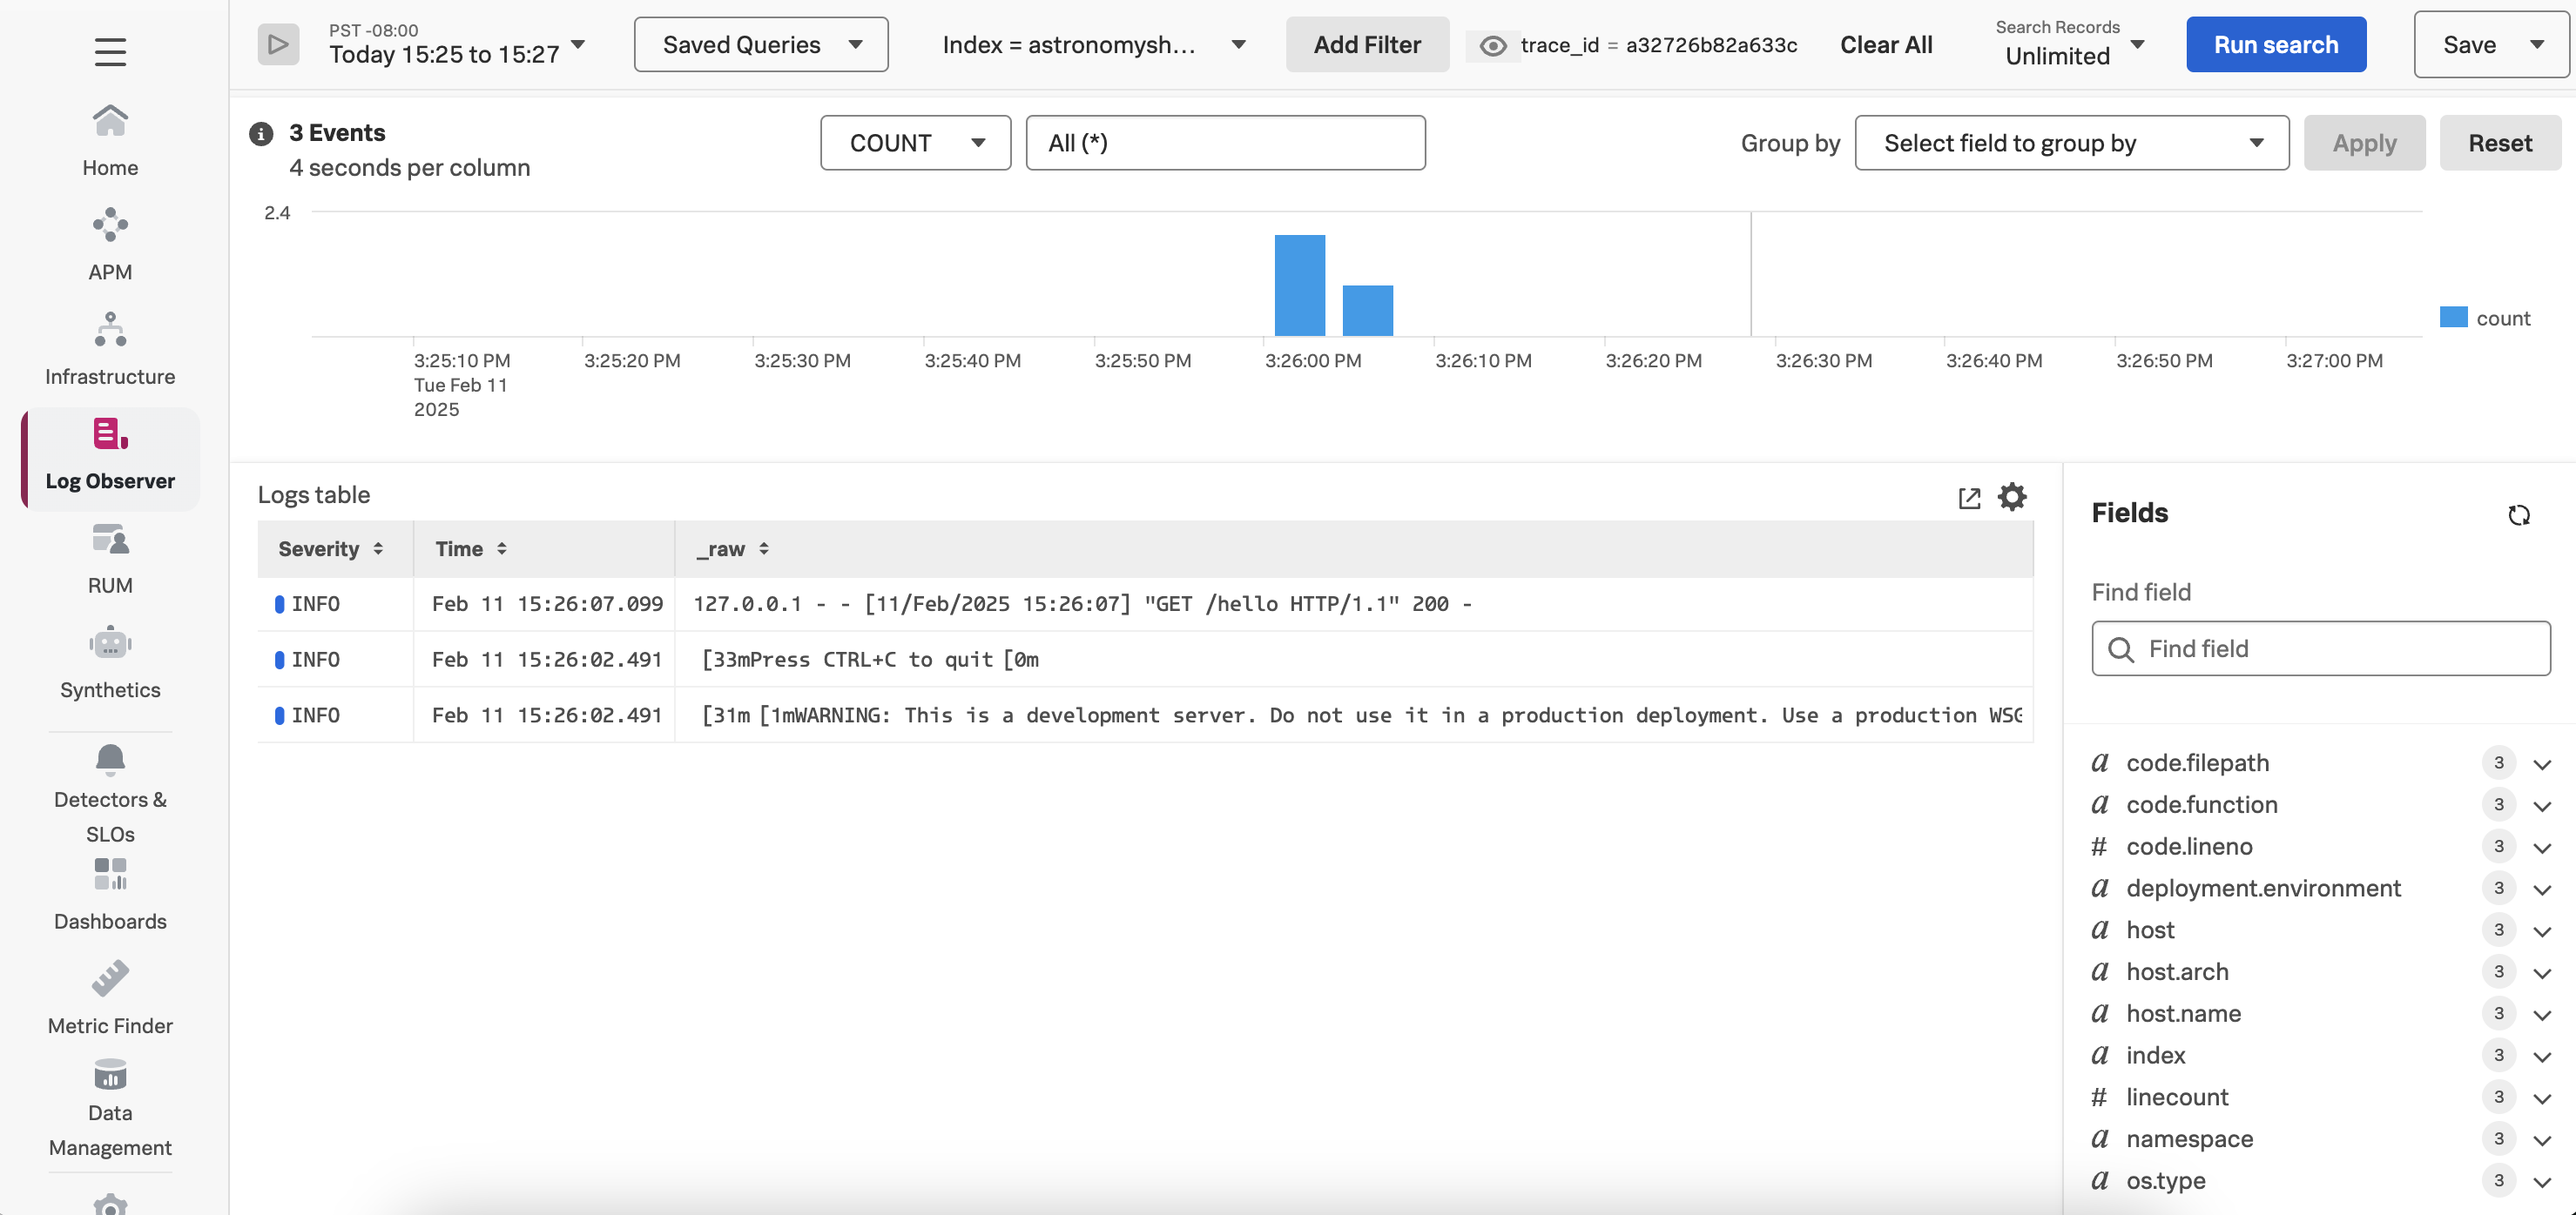
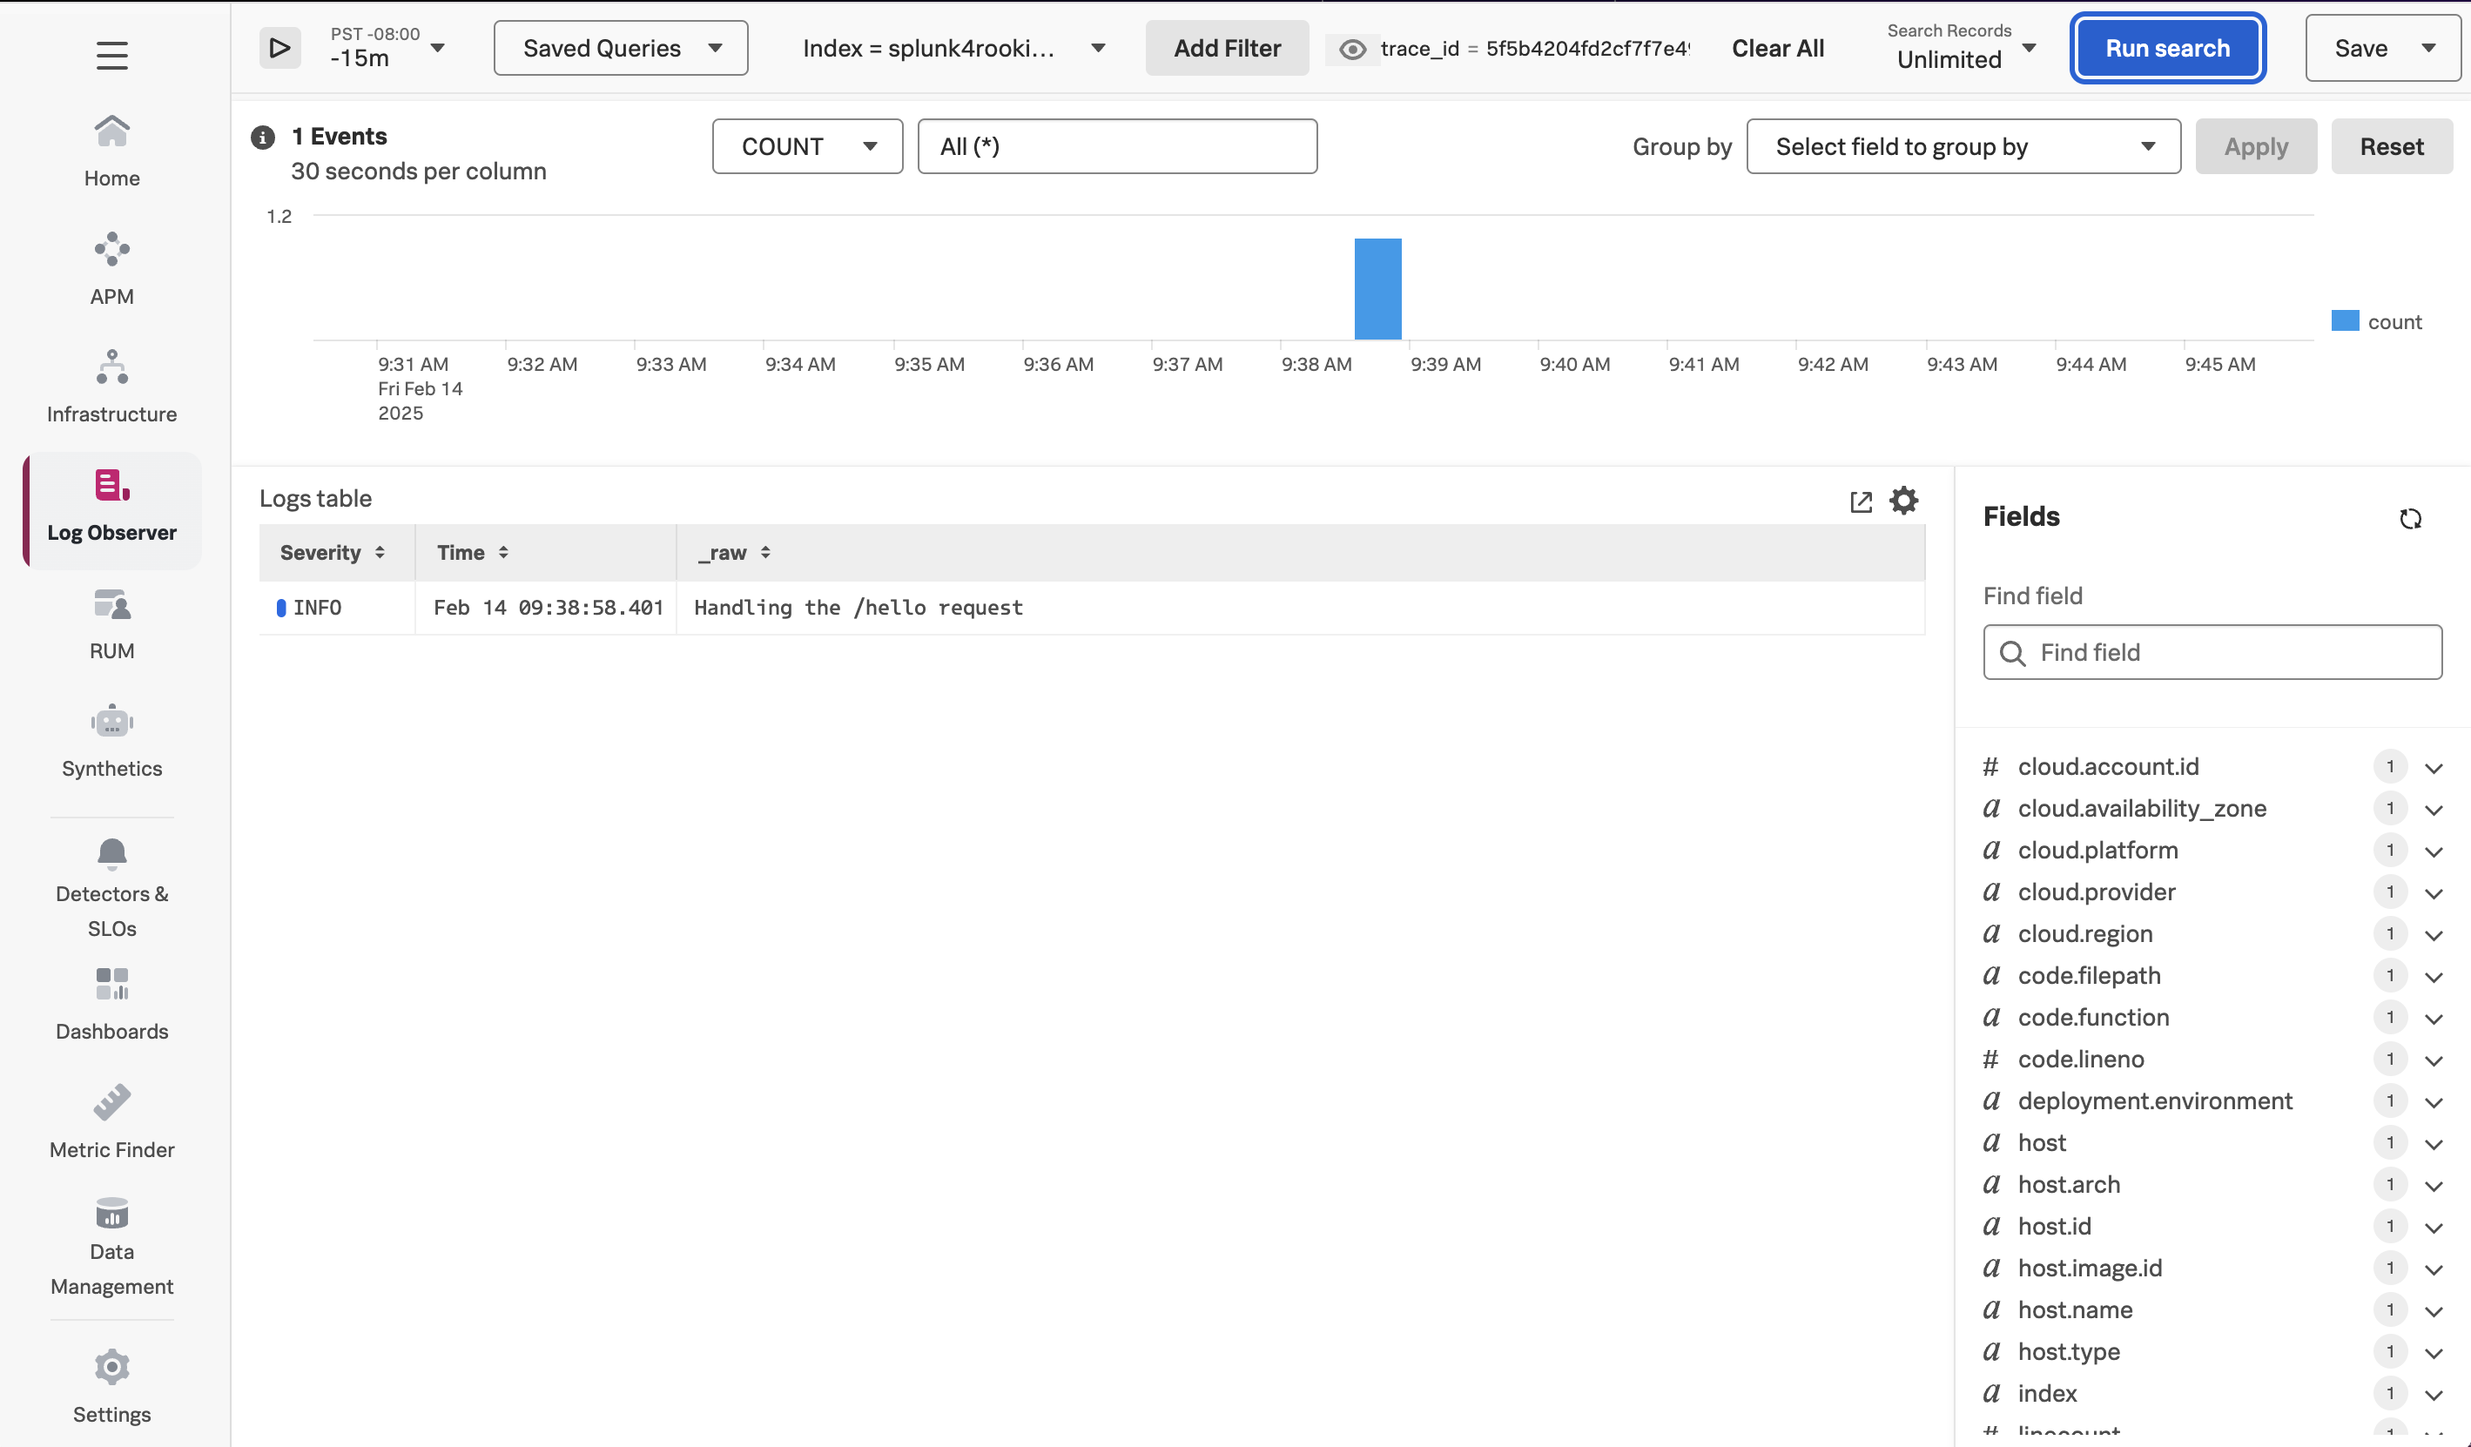
updated the python linux example for v2.0.0

diff --git a/instrumentation/python/linux/app.py b/instrumentation/python/linux/app.py
@@ -2,11 +2,10 @@ from flask import Flask, request
 import logging
 
 app = Flask(__name__)
-logging.basicConfig(level=logging.INFO)
-logger = logging.getLogger(__name__)
+logging.getLogger().setLevel(logging.INFO)
 
 @app.route("/hello")
 def hello_world():
 
-    logger.info("Handling the /hello request")
+    logging.getLogger().info("Handling the /hello request")
     return "Hello, World!"

diff --git a/instrumentation/python/linux/README.md b/instrumentation/python/linux/README.md
@@ -36,7 +36,7 @@ We installed the following packages:
 
 ````
 pip3 install flask
-pip3 install "splunk-opentelemetry[all]" 
+pip3 install "splunk-opentelemetry" 
 ````
 
 We then ran the following command to install instrumentation for packages 
@@ -71,8 +71,9 @@ To configure the instrumentation, we've set the following environment variables:
 ```` 
 export OTEL_SERVICE_NAME=python-flask-otel
 export OTEL_RESOURCE_ATTRIBUTES='deployment.environment=test'
+export OTEL_PYTHON_DISABLED_INSTRUMENTATIONS=click
 export OTEL_LOGS_EXPORTER=otlp
-export OTEL_PYTHON_LOG_LEVEL=debug
+export OTEL_PYTHON_LOG_LEVEL=debug,console
 export OTEL_PYTHON_LOGGING_AUTO_INSTRUMENTATION_ENABLED=true
 export SPLUNK_PROFILER_ENABLED=true
 ````
@@ -129,7 +130,57 @@ to logs when the standard `logging` library is used.
 Here's an example log entry, which includes the trace_id and span_id:
 
 ````
-2024-11-20 09:44:23,884 INFO [app] [app.py:11] [trace_id=1e16f688e4b6fc2c09a00c7522ca4c7a span_id=ae92e28b8c2007b0 resource.service.name=python-flask-otel trace_sampled=True] - Handling the /hello request
+{
+    "body": "Handling the /hello request",
+    "severity_number": 9,
+    "severity_text": "INFO",
+    "attributes": {
+        "otelSpanID": "ceca0980ca032057",
+        "otelTraceID": "5f5b4204fd2cf7f7e4907a294b6e935f",
+        "otelTraceSampled": true,
+        "otelServiceName": "python-flask-otel",
+        "code.filepath": "/home/splunk/splunk-opentelemetry-examples/instrumentation/python/linux/app.py",
+        "code.function": "hello_world",
+        "code.lineno": 10
+    },
+    "dropped_attributes": 0,
+    "timestamp": "2025-02-14T17:38:58.400733Z",
+    "observed_timestamp": "2025-02-14T17:38:58.400797Z",
+    "trace_id": "0x5f5b4204fd2cf7f7e4907a294b6e935f",
+    "span_id": "0xceca0980ca032057",
+    "trace_flags": 1,
+    "resource": {
+        "attributes": {
+            "telemetry.sdk.language": "python",
+            "telemetry.sdk.name": "opentelemetry",
+            "telemetry.sdk.version": "1.29.0",
+            "host.name": "derek-1",
+            "host.arch": "x86_64",
+            "deployment.environment": "test",
+            "telemetry.distro.name": "splunk-opentelemetry",
+            "telemetry.distro.version": "2.0.0",
+            "service.name": "python-flask-otel",
+            "process.runtime.description": "3.10.12 (main, Jan 17 2025, 14:35:34) [GCC 11.4.0]",
+            "process.runtime.name": "cpython",
+            "process.runtime.version": "3.10.12",
+            "process.pid": 25738,
+            "process.executable.name": "/home/splunk/splunk-opentelemetry-examples/instrumentation/python/linux/venv/bin/python3",
+            "process.executable.path": "/home/splunk/splunk-opentelemetry-examples/instrumentation/python/linux/venv/bin",
+            "process.command": "/home/splunk/splunk-opentelemetry-examples/instrumentation/python/linux/venv/bin/flask",
+            "process.command_line": "/home/splunk/splunk-opentelemetry-examples/instrumentation/python/linux/venv/bin/flask run -p 8080",
+            "process.command_args": [
+                "/home/splunk/splunk-opentelemetry-examples/instrumentation/python/linux/venv/bin/flask",
+                "run",
+                "-p",
+                "8080"
+            ],
+            "process.parent_pid": 23622,
+            "process.owner": "splunk",
+            "telemetry.auto.version": "0.50b0"
+        },
+        "schema_url": ""
+    }
+}
 ````
 
 The OpenTelemetry Collector can be configured to export log data to
